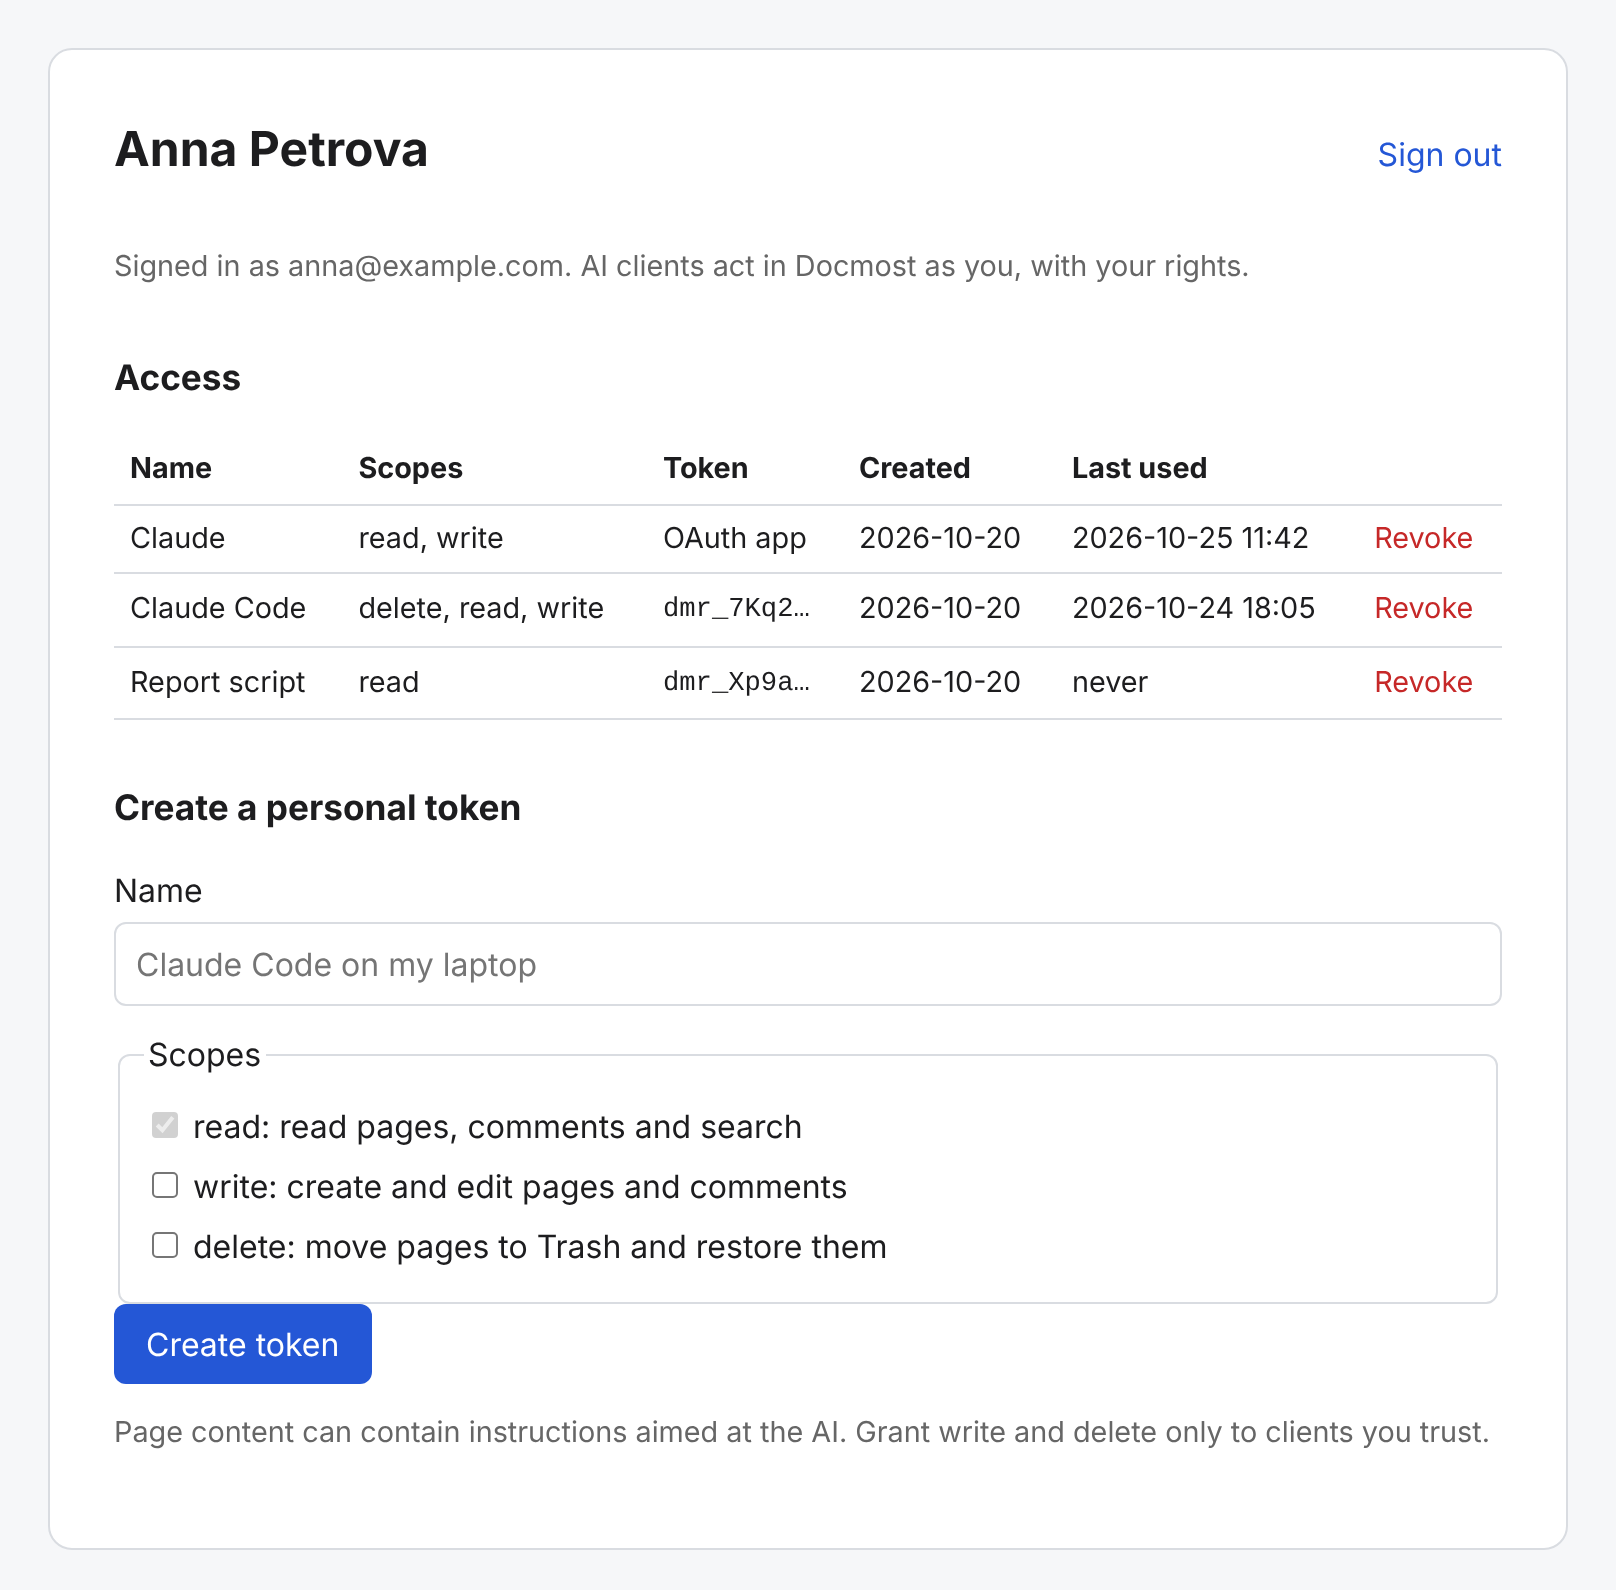
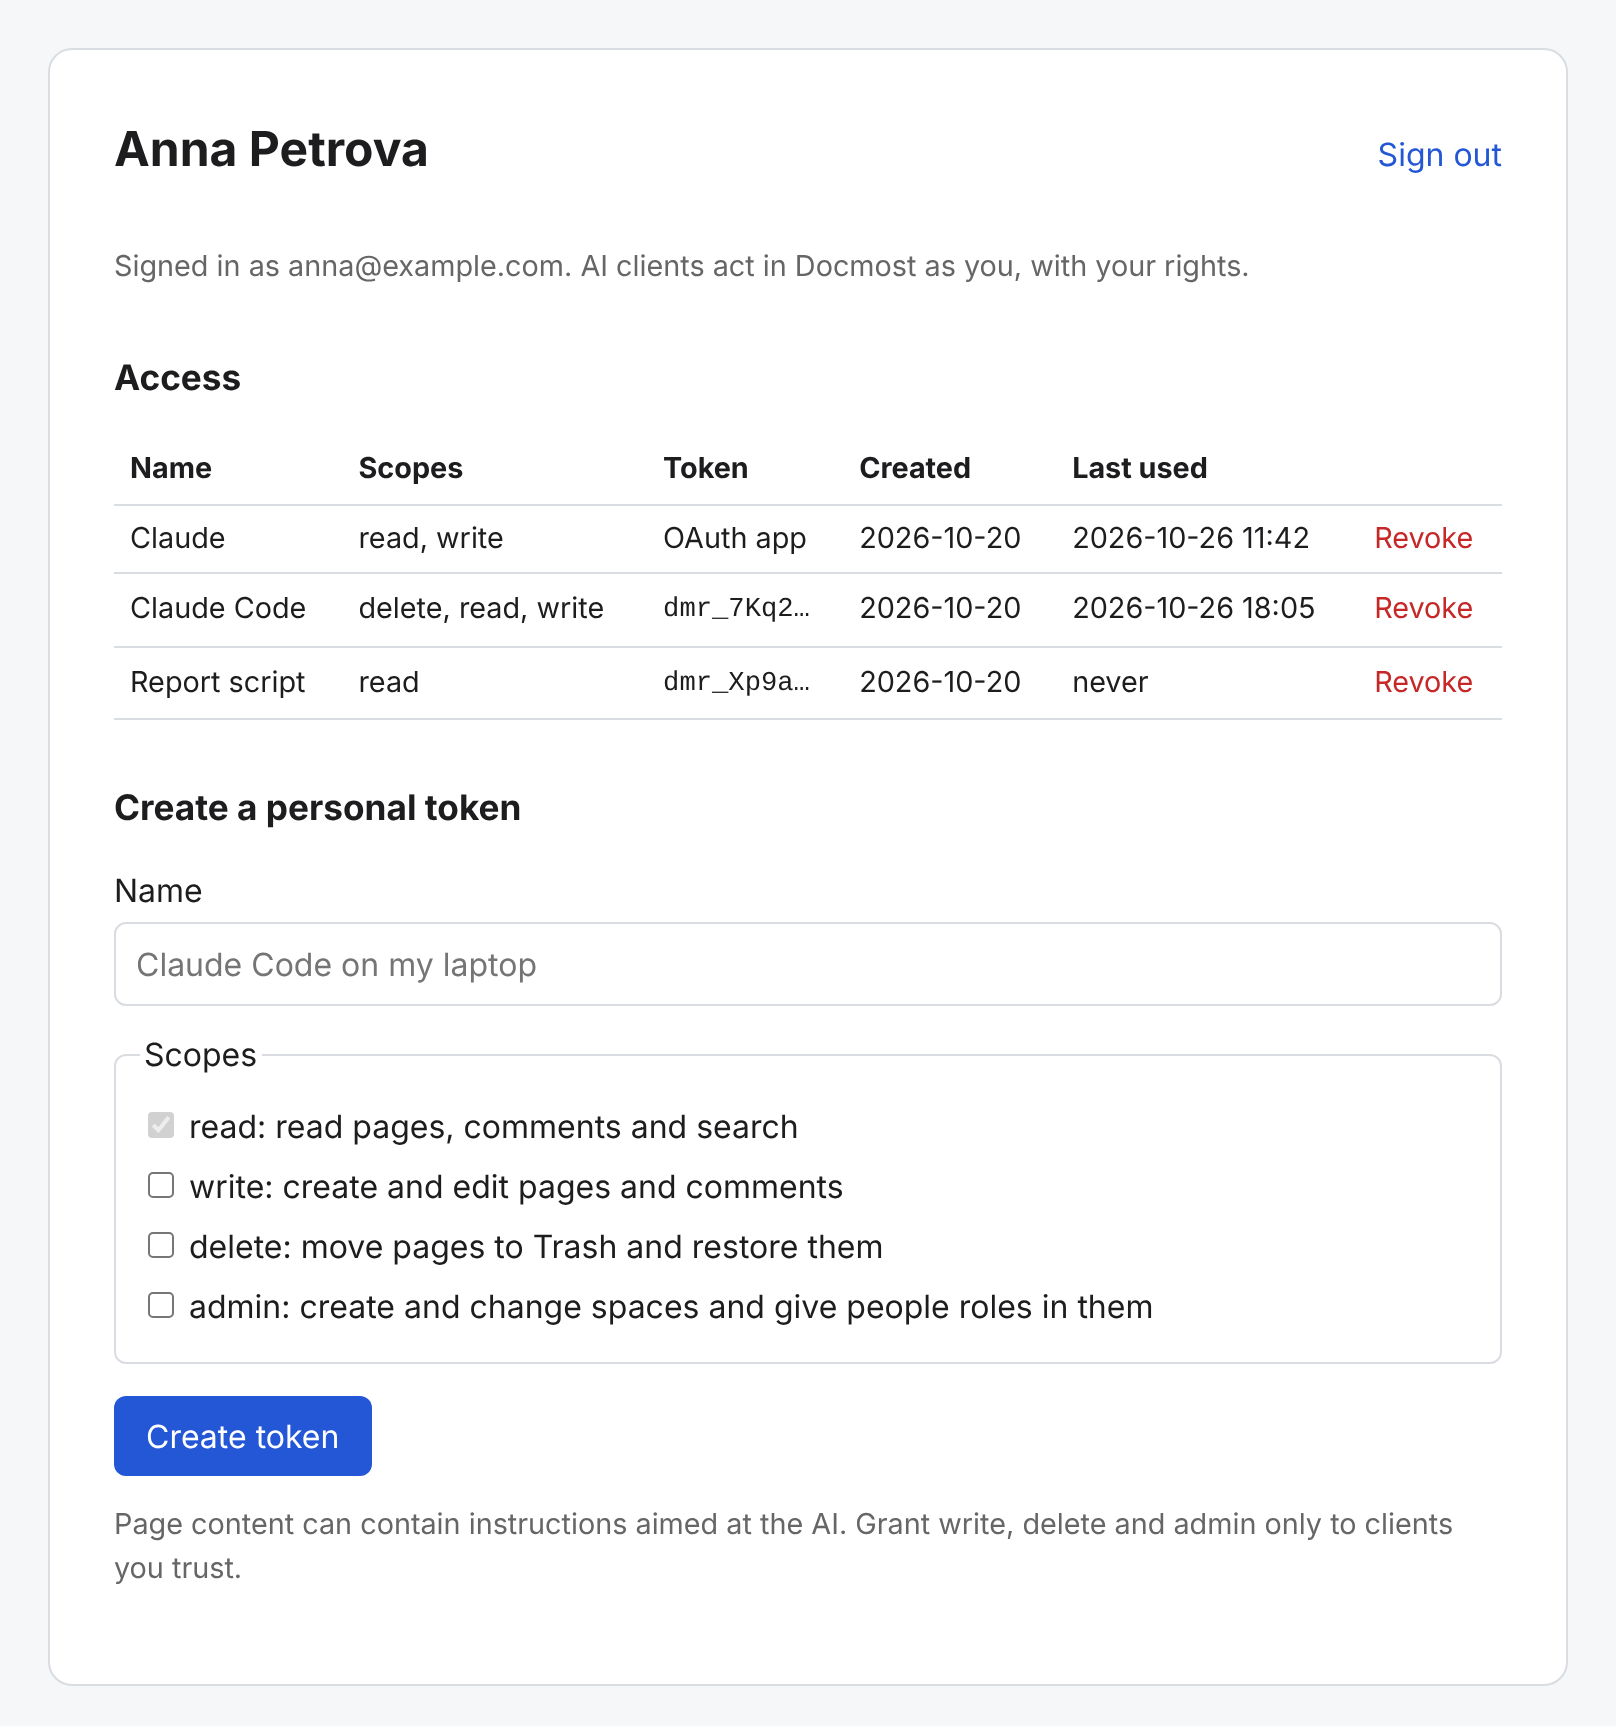
Bring both READMEs up to date with 1.1.0
Refresh the consent and account screenshots with the admin scope, document
download links, WEB_SESSION_HOURS and the 0.96 requirement of
list_attachments, link the resources and prompts section, and pin examples
to 1.1.0. The Russian README gains the version notes it was missing.

diff --git a/README.md b/README.md
@@ -32,7 +32,7 @@ member's own Docmost account and rights.
   before every change.
 - **Self-hosted.** One container plus Postgres, with a ready `compose.yaml`.
 
-[Quick start](#quick-start) · [Connecting a client](#connecting-a-client) · [Tools](#tools) · [Security model](#security-model) · [Configuration](#configuration) · [Upgrading](#upgrading)
+[Quick start](#quick-start) · [Connecting a client](#connecting-a-client) · [Tools](#tools) · [Resources and prompts](#resources-and-prompts) · [Security model](#security-model) · [Configuration](#configuration) · [Upgrading](#upgrading)
 
 ## How it works
 
@@ -50,7 +50,7 @@ every connected app and token on their account page.
 
 <table>
 <tr>
-<td width="50%"><img src="https://raw.githubusercontent.com/bbik52/docmost-mcp-remote/master/docs/images/consent.png" alt="The consent page: allow Claude to use Docmost as you, with read, write and delete scopes"></td>
+<td width="50%"><img src="https://raw.githubusercontent.com/bbik52/docmost-mcp-remote/master/docs/images/consent.png" alt="The consent page: allow Claude to use Docmost as you, with read, write, delete and admin scopes"></td>
 <td width="50%"><img src="https://raw.githubusercontent.com/bbik52/docmost-mcp-remote/master/docs/images/account.png" alt="The account page with connected apps, personal tokens and the form to create a token"></td>
 </tr>
 <tr>
@@ -67,8 +67,8 @@ sign-in. CI runs the integration tests against Docmost 0.70.3, 0.96.0 and
 added to the tested range. Docmost users who sign in with SSO only (an
 Enterprise feature) cannot use this server: it signs in with email and
 password. Labels and backlinks need Docmost 0.90 or newer, and the
-`title_only` and `labels` search filters need 0.96 or newer; on older
-versions these tools answer that Docmost needs an upgrade.
+`title_only` and `labels` search filters and `list_attachments` need 0.96 or
+newer; on older versions these tools answer that Docmost needs an upgrade.
 
 ## Tools
 
@@ -178,7 +178,16 @@ the same account page.
 Page content is treated as untrusted data and labelled as such for the model.
 Prompt injection in a page can still make a client act within the scopes the
 member granted, so grant `write`, `delete` and `admin` only to clients you trust.
-Tool calls are limited per member and recorded in an audit log. See the
+Tool calls and resource reads are limited per member and recorded in an
+audit log.
+
+Exports of several pages and file downloads are handed out as links to this
+server that are valid for ten minutes. A link carries, encrypted, who asked
+and what to download, so anyone holding it can download the file until it
+expires; the server streams the file from Docmost with that member's session
+and stores nothing. Links are kept out of the access log.
+
+See the
 [threat model](https://github.com/bbik52/docmost-mcp-remote/blob/master/docs/security-model.md), [SECURITY.md](https://github.com/bbik52/docmost-mcp-remote/blob/master/SECURITY.md) for
 how to report a vulnerability and the [design](https://github.com/bbik52/docmost-mcp-remote/blob/master/docs/DESIGN.md).
 
@@ -228,7 +237,7 @@ makes the snapshots unreadable.
 
 services:
   server:
-    # "1" follows 1.x releases; set IMAGE_TAG to a full version such as 1.0.0 to pin one.
+    # "1" follows 1.x releases; set IMAGE_TAG to a full version such as 1.1.0 to pin one.
     image: ghcr.io/bbik52/docmost-mcp-remote:${IMAGE_TAG:-1}
     restart: unless-stopped
     environment:
@@ -400,7 +409,7 @@ docker compose exec server docmost-mcp-remote admin audit --email anna@example.c
 
 `revoke-member` revokes every grant of the member and drops their stored
 Docmost session; `disable-member` blocks them until `enable-member`. Every
-tool call is recorded in the audit log with the tool, the page or space id
+tool call and resource read is recorded in the audit log with the tool, the page or space id
 and the outcome, never with content or arguments.
 
 To rotate `SECRET_KEY`: set the old value as `SECRET_KEY_PREVIOUS` and a new
@@ -436,7 +445,7 @@ restore the backup with the old image:
 ```sh
 docker compose stop server
 docker compose exec -T postgres pg_restore -U docmost_mcp -d docmost_mcp --clean --if-exists < docmost-mcp-2026-01-31.dump
-IMAGE_TAG=1.0.0 docker compose up -d
+IMAGE_TAG=1.1.0 docker compose up -d
 ```
 
 ## Configuration
@@ -455,6 +464,7 @@ IMAGE_TAG=1.0.0 docker compose up -d
 | `SNAPSHOT_RETENTION_DAYS` | no | `30` | Days a snapshot of a page body is kept |
 | `AUDIT_RETENTION_DAYS` | no | `90` | Days an audit log entry is kept |
 | `TOOL_CALLS_PER_MINUTE` | no | `60` | Tool calls and resource reads one member may make per minute, over all their clients |
+| `WEB_SESSION_HOURS` | no | `12` | Hours a sign-in to the account page lasts |
 | `RELOGIN_MODE` | no | `ask` | `ask`: members sign in again when their Docmost session expires; `stored_password`: the password is kept encrypted and used to sign in again |
 | `DOCMOST_TIMEOUT_SECONDS` | no | `15` | Timeout for one request to Docmost |
 | `DOCMOST_MAX_RESPONSE_BYTES` | no | `5242880` | Largest Docmost response the server reads |

diff --git a/CHANGELOG.md b/CHANGELOG.md
@@ -21,6 +21,9 @@ when upgrading lists it under "Upgrade notes".
 
 ### Changed
 
+- README: screenshots show the `admin` scope; the download links, the
+  `WEB_SESSION_HOURS` setting and the Docmost version `list_attachments`
+  needs are documented.
 - Resource reads share the tool call rate limit and are written to the audit
   log as `read_resource`.
 
